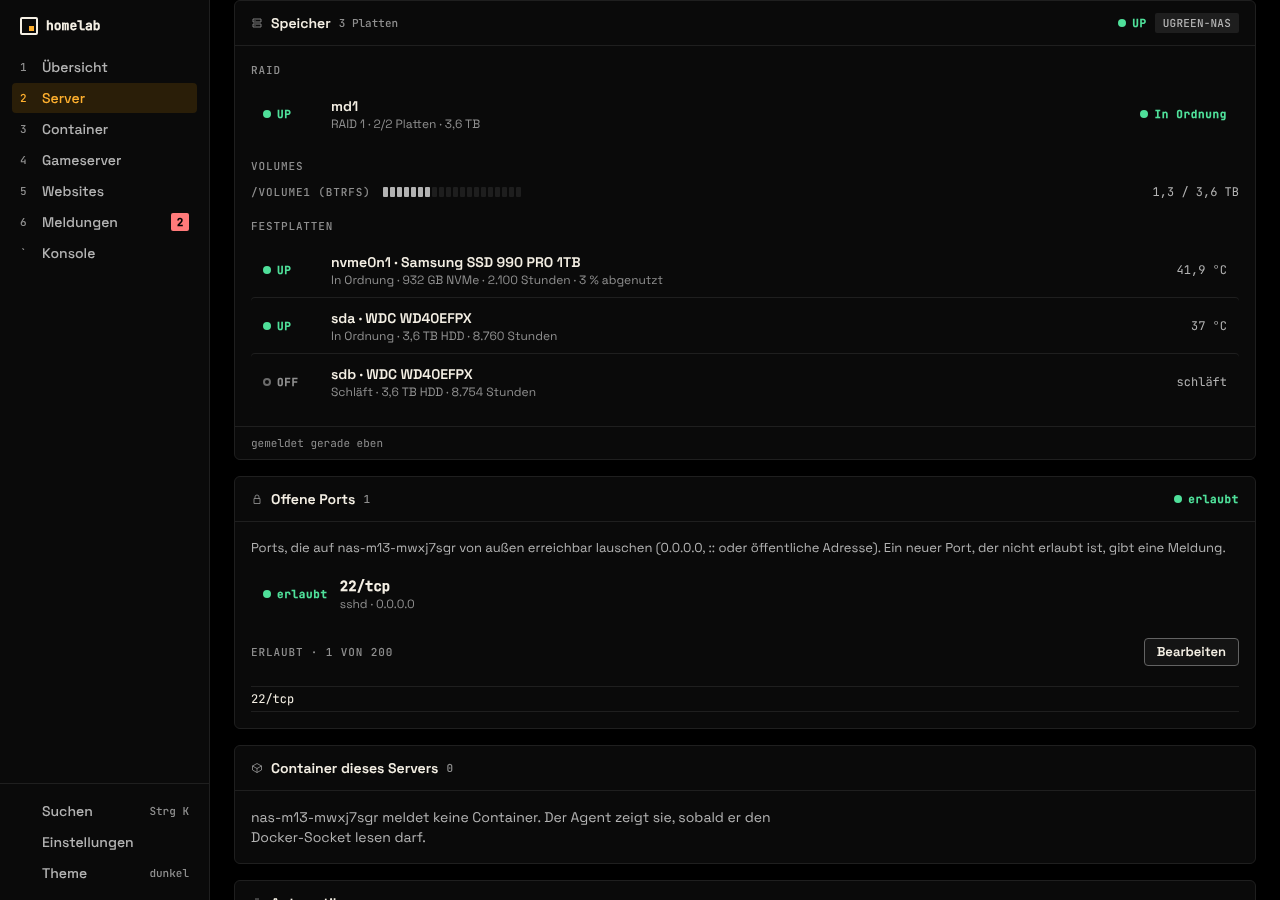
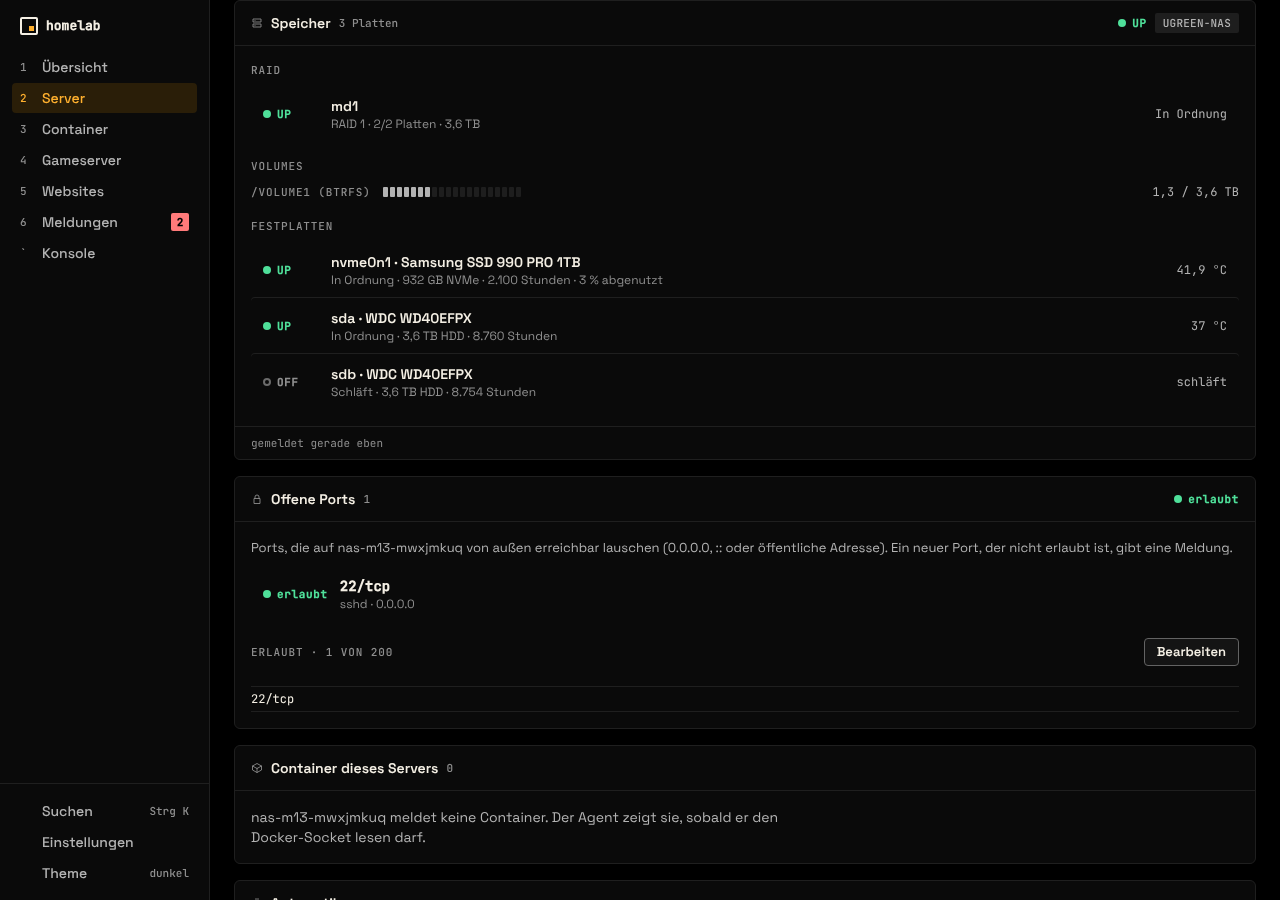
fix(storage): review findings
- sleeping disk keeps its heat alert; vanished disk/array closes without OK entry
- snapshot stored while the module is off, so switching on judges the current state
- SMART reads in parallel (15 s timeout), smartctl exit bit 0 counts as not read
- same UGREEN detection in both installers as in the agent
- honest comment on what SYS_RAWIO allows
- singular texts, status text in overview rows, media errors labelled as such

Claude-Session: https://claude.ai/code/session_01BsNkQdB5HyZ815w4hcoRUc

Changed region(s): [[0.3438, 0.5911, 0.9688, 0.6222], [0.2812, 0.9022, 0.5938, 0.9333], [0.9062, 0.1244, 0.9688, 0.1556]]

diff --git a/apps/agent/src/collect/storage.ts b/apps/agent/src/collect/storage.ts
@@ -33,7 +33,7 @@ import { hostPath, type HostContext } from '../host.js';
  */
 
 export const SMART_CACHE_MS = 10 * 60_000;
-const SMART_TIMEOUT_MS = 20_000;
+const SMART_TIMEOUT_MS = 15_000;
 const MAX_DISKS = 64;
 const MAX_ARRAYS = 32;
 const MAX_VOLUMES = 32;
@@ -354,8 +354,9 @@ export function parseSmartctlJson(text: string): SmartRead {
     : [];
   const status = j.smart_status as { passed?: unknown } | undefined;
   const standby = status === undefined && messages.some((m) => /STANDBY|SLEEP/i.test(m));
-  // Bit 1: device open failed or the device did not return an identify.
-  const openFailed = !standby && (exit & 2) !== 0 && status === undefined;
+  // Bit 0: command line not understood (e.g. an old smartctl); bit 1: device open
+  // failed or the device did not return an identify.
+  const openFailed = !standby && ((exit & 1) !== 0 || ((exit & 2) !== 0 && status === undefined));
   const model = typeof j.model_name === 'string' ? clip(j.model_name, 80) : undefined;
   const serial = typeof j.serial_number === 'string' ? clip(j.serial_number, 64) : undefined;
   const temp = num((j.temperature as { current?: unknown } | undefined)?.current);
@@ -480,15 +481,21 @@ export async function collectStorage(
 
   let smartState: StorageInfo['smart'] = opts.smart ? 'on' : 'off';
   let opened = 0;
-  const disks: PhysicalDisk[] = [];
-  for (const d of sysDisks) {
+  // SMART reads run in parallel, so one slow disk or controller delays the inventory
+  // by at most one timeout, not one per disk.
+  const reads = await Promise.all(
+    sysDisks.map((d) =>
+      opts.smart && opts.smartReader ? opts.smartReader.read(d.name) : Promise.resolve(null),
+    ),
+  );
+  const disks: PhysicalDisk[] = sysDisks.map((d, i) => {
     let tempC = d.hwmonTemp;
     let standby = false;
     let smart: PhysicalDisk['smart'] = null;
     let model = d.model;
     let serial = d.serial;
-    if (opts.smart && opts.smartReader) {
-      const e = await opts.smartReader.read(d.name);
+    const e = reads[i];
+    if (e) {
       if (!e.read.openFailed) opened += 1;
       standby = e.read.standby;
       model = e.read.model ?? e.awake?.read.model ?? model;
@@ -498,7 +505,7 @@ export async function collectStorage(
       const src = e.awake;
       if (src?.read.smart) smart = { ...src.read.smart, readAt: new Date(src.at).toISOString() };
     }
-    disks.push({
+    return {
       name: d.name,
       kind: d.kind,
       ...(model ? { model } : {}),
@@ -507,8 +514,8 @@ export async function collectStorage(
       tempC,
       standby,
       smart,
-    });
-  }
+    };
+  });
   if (opts.smart && sysDisks.length > 0 && opened === 0) smartState = 'unavailable';
   return { platform, smart: smartState, arrays, volumes, disks };
 }

diff --git a/apps/core/src/storage/service.ts b/apps/core/src/storage/service.ts
@@ -38,9 +38,13 @@ export class StorageService {
     else for (const s of this.list()) this.reconcile(s.serverId, s.name, s.storage);
   }
 
-  /** Called after every stored inventory. Older agents send no storage: nothing changes. */
+  /**
+   * Called after every stored inventory. Older agents send no storage: nothing changes.
+   * While the module is off the snapshot is still stored (so switching it on judges the
+   * current state, not an old one), but no alert is raised.
+   */
   onInventory(serverId: string, storage: StorageInfo | undefined): void {
-    if (!this.enabled || storage === undefined) return;
+    if (storage === undefined) return;
     // The hub already validated the message; parse again so only known fields are stored.
     const parsed = storageInfoSchema.parse(storage);
     const now = this.deps.now();
@@ -58,7 +62,7 @@ export class StorageService {
       .from(servers)
       .where(eq(servers.id, serverId))
       .get();
-    if (server) this.reconcile(serverId, server.name, parsed);
+    if (server && this.enabled) this.reconcile(serverId, server.name, parsed);
   }
 
   private reconcile(serverId: string, name: string, storage: StorageInfo): void {
@@ -71,9 +75,22 @@ export class StorageService {
     for (const key of this.activeKeys(serverId)) {
       if (keys.has(key)) continue;
       const parsed = parseStorageAlertKey(key);
+      const disk = parsed ? storage.disks.find((d) => d.name === parsed.device) : undefined;
+      const present =
+        parsed?.kind === 'raid'
+          ? storage.arrays.some((a) => a.name === parsed.device)
+          : disk !== undefined;
+      // A sleeping disk reports no temperature: its heat alert stays until it is awake again.
+      if (parsed?.kind === 'temp' && disk?.standby) continue;
+      if (!parsed || !present) {
+        // The disk or array is gone: close without an "all fine" entry (that would mislead).
+        const active = this.deps.alerts.active(key);
+        if (active) this.deps.alerts.resolveById(active.id);
+        continue;
+      }
       this.deps.alerts.resolve(key, {
         title: `Speicher auf ${name} wieder in Ordnung`,
-        body: parsed ? `${okText(parsed.kind)} (${parsed.device}).` : 'Das Problem ist behoben.',
+        body: `${okText(parsed.kind)} (${parsed.device}).`,
       });
     }
   }

diff --git a/apps/web/src/lib/storage.ts b/apps/web/src/lib/storage.ts
@@ -7,7 +7,7 @@ import {
 } from '@hz/shared';
 import type { Status } from '@hz/ui';
 import { api } from './api.js';
-import { formatBytes, formatGrouped, formatNumber, formatTemp } from './format.js';
+import { formatBytes, formatGrouped, formatNumber, formatTemp, plural } from './format.js';
 
 /** M13 NAS und Speicher: GET /api/storage, GET /api/storage/:id. */
 export const storageListKey = ['storage'] as const;
@@ -77,8 +77,8 @@ export function diskView(d: PhysicalDisk): {
   meta: string;
 } {
   const sm = d.smart;
-  const bad =
-    (sm?.reallocated ?? 0) + (sm?.pending ?? 0) + (sm?.uncorrectable ?? 0) + (sm?.mediaErrors ?? 0);
+  const bad = (sm?.reallocated ?? 0) + (sm?.pending ?? 0) + (sm?.uncorrectable ?? 0);
+  const media = sm?.mediaErrors ?? 0;
   let status: Status = 'ok';
   let label = 'In Ordnung';
   if (sm?.health === 'failed') {
@@ -86,7 +86,10 @@ export function diskView(d: PhysicalDisk): {
     label = 'SMART: Ausfall';
   } else if (bad > 0) {
     status = 'warn';
-    label = `${formatNumber(bad, 0)} defekte Sektoren`;
+    label = plural(bad, 'defekter Sektor', 'defekte Sektoren');
+  } else if (media > 0) {
+    status = 'warn';
+    label = plural(media, 'Medienfehler', 'Medienfehler');
   } else if (d.standby) {
     status = 'off';
     label = 'Schläft';
@@ -122,4 +125,14 @@ export const SMART_HINT: Record<StorageServer['storage']['smart'], string | null
   off: 'SMART ist aus. Für Gesundheit, defekte Sektoren und Temperatur der Festplatten den Agent mit --smart einrichten (auf einem UGREEN-NAS automatisch).',
   unavailable:
     'SMART ist an, aber der Agent darf die Platten nicht lesen. deploy/docker-compose.agent.smart.yml mitstarten.',
+};
+
+/** Status text next to the dot, so a row never relies on colour alone. */
+export const STORAGE_STATUS_TEXT: Record<Status, string> = {
+  ok: 'In Ordnung',
+  warn: 'Warnung',
+  crit: 'Problem',
+  busy: 'Synchronisiert',
+  info: 'Info',
+  off: 'Aus',
 };

diff --git a/apps/web/src/pages/storage/StorageOverviewTile.tsx b/apps/web/src/pages/storage/StorageOverviewTile.tsx
@@ -2,8 +2,13 @@ import { useQuery } from '@tanstack/react-query';
 import type { ReactElement } from 'react';
 import { Link } from 'react-router';
 import { ServiceRow, Tile } from '@hz/ui';
-import { formatBytesOf } from '../../lib/format.js';
-import { fetchStorageList, storageListKey, storageStatus } from '../../lib/storage.js';
+import { formatBytesOf, plural } from '../../lib/format.js';
+import {
+  STORAGE_STATUS_TEXT,
+  fetchStorageList,
+  storageListKey,
+  storageStatus,
+} from '../../lib/storage.js';
 
 /**
  * Overview tile "Speicher" (ROADMAP M13): one row per server with storage data
@@ -36,7 +41,7 @@ export function StorageOverviewTile({
         title="Speicher"
         icon="server"
         span={2}
-        count={problems ? `${problems} Probleme` : undefined}
+        count={problems ? plural(problems, 'Problem', 'Probleme') : undefined}
         status={rows[0]?.status}
       >
         <div className="app-rows">
@@ -51,11 +56,12 @@ export function StorageOverviewTile({
                 host={
                   first
                     ? first.title
-                    : `${s.storage.arrays.length} RAID · ${s.storage.disks.length} Platten${
+                    : `${s.storage.arrays.length} RAID · ${plural(s.storage.disks.length, 'Platte', 'Platten')}${
                         total > 0 ? ` · ${formatBytesOf(used, total)}` : ''
                       }`
                 }
                 status={status}
+                meta={STORAGE_STATUS_TEXT[status]}
                 actions={
                   <Link className="hz-btn hz-btn-ghost hz-btn-sm" to={`/servers/${s.serverId}`}>
                     Ansehen

diff --git a/e2e/m13-storage.spec.ts b/e2e/m13-storage.spec.ts
@@ -156,7 +156,8 @@ test.afterAll(async () => {
 test('server detail shows RAID, volumes and disks; overview has the tile', async () => {
   await page.goto(`/servers/${nasId}`);
   const tile = tileByTitle(page, 'Speicher');
-  await expect(tile).toBeVisible();
+  // The section loads after the server detail (own query).
+  await expect(tile).toBeVisible({ timeout: 15_000 });
   await expect(tile).toContainText('UGREEN-NAS');
   await expect(tile).toContainText('RAID 1 · 2/2 Platten');
   await expect(tile).toContainText('/volume1 (btrfs)');
@@ -191,8 +192,7 @@ test('a failed disk degrades the RAID: crit alert, resolved after the rebuild', 
 test('module off hides the section and the overview tile', async () => {
   await setModules(page, totp, { storage: false });
   await page.goto(`/servers/${nasId}`);
-  await expect(page.getByRole('heading', { name: NAS }).or(page.locator('main'))).toBeVisible();
-  await expect(tileByTitle(page, 'Auslastung')).toBeVisible();
+  await expect(tileByTitle(page, 'Auslastung')).toBeVisible({ timeout: 15_000 });
   await expect(tileByTitle(page, 'Speicher')).toHaveCount(0);
   await page.goto('/');
   await expect(tileByTitle(page, 'Speicher')).toHaveCount(0);

diff --git a/apps/core/test/storage.test.ts b/apps/core/test/storage.test.ts
@@ -184,6 +184,21 @@ describe('storage (M13)', () => {
     expect(open).toHaveLength(3);
   });
 
+  it('a sleeping disk keeps its heat alert; a vanished disk closes without an OK entry', async () => {
+    const { serverId } = await setup();
+    const [a, b] = nasStorage().disks;
+    if (!a || !b) throw new Error('fixture');
+    await sendStorage(serverId, nasStorage({ disks: [{ ...a, tempC: 62 }, b] }));
+    const key = storageAlertKey(serverId, 'temp', 'sda');
+    const active = () => storageAlerts(serverId).filter((x) => x.state !== 'resolved');
+    expect(active().map((x) => x.key)).toEqual([key]);
+    await sendStorage(serverId, nasStorage({ disks: [{ ...a, tempC: null, standby: true }, b] }));
+    expect(active().map((x) => x.key)).toEqual([key]);
+    await sendStorage(serverId, nasStorage({ disks: [b] }));
+    expect(active()).toEqual([]);
+    expect(storageAlerts(serverId).some((x) => x.level === 'ok')).toBe(false);
+  });
+
   it('an inventory without storage (older agent) keeps the last snapshot', async () => {
     const { cookie, serverId } = await setup();
     await sendStorage(serverId, nasStorage());

diff --git a/apps/web/src/pages/storage/StorageTile.tsx b/apps/web/src/pages/storage/StorageTile.tsx
@@ -3,7 +3,7 @@ import type { ReactElement } from 'react';
 import { Alert, Badge, ServiceRow, Tile, UsageBar } from '@hz/ui';
 import { isApiError } from '../../lib/api.js';
 import { errorText } from '../../lib/errors.js';
-import { formatAgo, formatBytesOf } from '../../lib/format.js';
+import { formatAgo, formatBytesOf, plural } from '../../lib/format.js';
 import {
   SMART_HINT,
   arrayView,
@@ -50,7 +50,7 @@ export function StorageTile({ serverId }: { serverId: string }): ReactElement | 
       icon="server"
       span={4}
       status={status}
-      count={`${st.disks.length} Platten`}
+      count={plural(st.disks.length, 'Platte', 'Platten')}
       actions={st.platform.kind === 'ugreen' ? <Badge tone="neutral">UGREEN-NAS</Badge> : undefined}
       footer={
         <span className="app-foot-text">gemeldet {formatAgo(new Date(s.updatedAt), now)}</span>

diff --git a/apps/agent/test/storage.test.ts b/apps/agent/test/storage.test.ts
@@ -172,6 +172,12 @@ describe('smartctl json', () => {
     );
     expect(r).toMatchObject({ openFailed: true, smart: null });
     expect(parseSmartctlJson('not json').openFailed).toBe(true);
+    // Bit 0: smartctl did not understand the command line (too old): not a read.
+    expect(
+      parseSmartctlJson(
+        JSON.stringify({ smartctl: { exit_status: 1 }, smart_status: { passed: true } }),
+      ).openFailed,
+    ).toBe(true);
   });
 });
 
